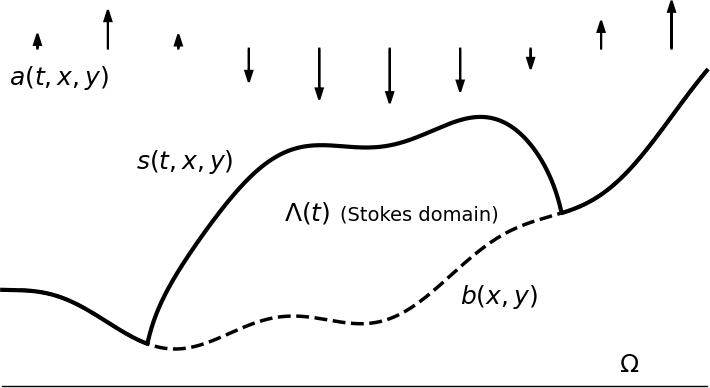
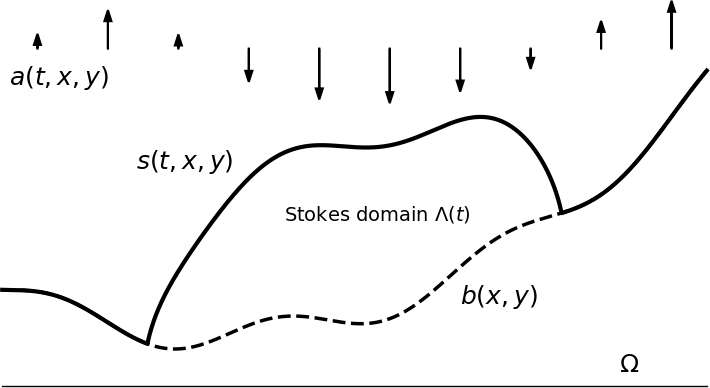
work on slides some more

Changed region(s): [[0.4028, 0.5258, 0.7127, 0.5876]]

diff --git a/latex/slides.tex b/latex/slides.tex
@@ -89,9 +89,9 @@
 \newcommand{\surl}[2]{\,{\scriptsize \href{#1}{#2}}}
 
 
-\title{Stokes glacier models using Firedrake}
+\title{Stokes Glacier Models Using Firedrake}
 
-\subtitle{A finite element tutorial for ice dynamics}
+\subtitle{a finite element tutorial}
 
 \author{Ed Bueler}
 
@@ -150,7 +150,7 @@
 
 \section{stage 0 \hspace{9.3mm} the glacier dynamics problem}
 
-\begin{frame}{glacier dynamics using the Stokes model: the high-level view}
+\begin{frame}{glacier dynamics using a Stokes model: the high-level view}
 
 \begin{itemize}
 \item we apply conservation principles to glaciers:
@@ -166,19 +166,17 @@
 \item glaciers are a ``slow flow'' problem because the forces of inertia are tiny
     \begin{itemize}
     \item[$\circ$] momentum conservation is called a ``stress balance''
-    \item[$\circ$] \alert{velocity \& pressure are instantaneously determined by current geometry \& boundary stresses}
+    \item[$\circ$] velocity \& pressure are \alert{instantaneously determined} by current geometry \& boundary stresses
     \end{itemize}
+\item \alert{Stokes equations $=$ stress balance $+$ incompressibility}
+\end{itemize}
 
-\bigskip
+\bigskip\bigskip
+
 {\scriptsize velocity} \hfill \includegraphics[width=0.8\textwidth]{figs/speed.png}
 
 \medskip
 {\scriptsize pressure} \hfill \includegraphics[width=0.8\textwidth]{figs/pressure.png}
-
-\bigskip
-
-\item \alert{Stokes equations $=$ stress balance $+$ incompressibility}
-\end{itemize}
 \end{frame}
 
 
@@ -487,7 +485,7 @@ $ git clone https://github.com/bueler/stokes-ice-tutorial.git
 \item \emph{purpose:} solve linear Stokes on a trapezoidal ``glacier''
 
     \begin{itemize}
-    \item[$\circ$] simplified weak form
+    \item[$\circ$] weak form:
     \end{itemize}
 {\small
     $$F(\bu,p;\bv,q) = \int_{\Lambda} 2 \nu_0\, D\bu\,:\,D\bv - p \nabla \cdot \bv - q \nabla \cdot \bu - \rho \mathbf{g} \cdot \bv \,dx$$
@@ -679,12 +677,8 @@ $800\times 128$&   $25  \times 8$   &        1759 &     3190
 \medskip
 \begin{Verbatim}[fontsize=\footnotesize,xleftmargin=-4mm]
 $ python3 solve.py -mx 800 -refine 2               # 38 secs run time
-  ...
-  ice speed (m a-1): av = 1758.861, max = 3190.043
 
 $ mpiexec -n 4 python3 solve.py -mx 800 -refine 2  # 20 secs run time
-  ...
-  ice speed (m a-1): av = 1758.861, max = 3190.043
 \end{Verbatim}
 %$
 
@@ -764,13 +758,17 @@ $ mpiexec -n 12 python3 solve.py -o finest.pvd \
 \medskip
 \item[Q.] how do glaciers change shape?
 
-\item[A.] via the \alert{free-surface equation} (or kinematical equation):
+\item[A.] via the \alert{free-surface equation} (or surface kinematical equation):
    $$\frac{\partial s}{\partial t} - \bu|_s \cdot \bn_s = a$$
 
     \begin{itemize}
     \item[$\circ$] $z=s(t,x,y)$ is the surface elevation of the glacier
-    \item[$\circ$] $a(t,x,y)$ is the surface mass balance
+
+\smallskip
+    \item[$\circ$] $a(t,x,y)$ is the surface mass balance \strut
     \item[$\circ$] $\bn_s=\left<-\frac{\partial s}{\partial x},-\frac{\partial s}{\partial y},1\right>$ is a normal vector to the surface
+
+\smallskip
     \item[$\circ$] $\bu|_s$ is the surface value (\emph{trace}) of the Stokes solution velocity
     \end{itemize}
 
@@ -779,7 +777,6 @@ $ mpiexec -n 12 python3 solve.py -o finest.pvd \
     \begin{itemize}
     \item[$\circ$] $\Omega \subset \RR^d$ is a fixed map-plane region \hfill {\footnotesize \emph{$d=2$ in reality, $d=1$ for planar}}
     \end{itemize}
-\item the \emph{mass continuity} equation is an alternative to the free-surface equation
 \end{itemize}
 \end{frame}
 
@@ -790,8 +787,8 @@ $ mpiexec -n 12 python3 solve.py -o finest.pvd \
 \item so we have a \alert{coupled} system of simultaneous equations:
 \begin{align*}
 \frac{\partial s}{\partial t} - \bu|_s \cdot \bn_s &= a &&\text{\emph{free-surface equation}} \\
-- \Div \left(2 \nu_\eps(|D\bu|)\, D\bu\right) + \nabla p &= \rho \bg &&\text{\emph{stress balance}} \\
-\Div \bu &= 0 &&\text{\emph{incompressibility}}
+- \Div \left(2 \nu_\eps(|D\bu|)\, D\bu\right) + \nabla p &= \rho \bg &&\text{\emph{stress balance}} \phantom{\int}  \\
+\phantom{\int} \Div \bu &= 0 &&\text{\emph{incompressibility}}
 \end{align*}
 \end{itemize}
 
@@ -816,7 +813,8 @@ $ mpiexec -n 12 python3 solve.py -o finest.pvd \
 \begin{frame}{weak form of coupled system of equations}
 
 \begin{itemize}
-\item get the weak form of the coupled system in the usual way, namely multiply by test functions and integrate by parts:
+\item get the weak form of the coupled system in the usual way \dots
+\item multiply by test functions and integrate by parts:
 {\small
 \begin{align*}
 \int_\Omega \left(\frac{\partial s}{\partial t} - \bu|_s \cdot \bn_s - a\right)\, r\,dx &=0  &&\forall r \\
@@ -832,7 +830,7 @@ $ mpiexec -n 12 python3 solve.py -o finest.pvd \
 \item we need to make high-level choices about this coupled system:
     \begin{enumerate}
     \item[1.] time-stepping: explicit or implicit?
-    \item[2.] solve it together (\emph{monolithic}) or split?
+    \item[2.] solved together (\emph{monolithic}) or split?
     \item[3.] spaces and elements for $s,\bu,p$?
     \end{enumerate}
 \end{itemize}
@@ -840,8 +838,8 @@ $ mpiexec -n 12 python3 solve.py -o finest.pvd \
 \begin{column}{0.45\textwidth}
 \phantom{foo}
 
-\vspace{2mm}
-\hfill \includegraphics[width=0.9\textwidth]{figs/domain.png}
+%\vspace{2mm}
+\hfill \includegraphics[width=\textwidth]{figs/domain.png}
 \end{column}
 \end{columns}
 \end{frame}
@@ -853,25 +851,25 @@ $ mpiexec -n 12 python3 solve.py -o finest.pvd \
 \item early/naive approaches to solving this coupled problem have been fragile
     \begin{itemize}
     \item[$\circ$] the method everyone tries first is to solve Stokes for the current geometry, then advance the surface, and repeat
-    \item[$\circ$] this is a \emph{split} and \emph{explicit} approach to the coupled problem
-    \item[$\circ$] the result is \alert{limited performance because of poorly-understood time-step restrictions}
+    \item[$\circ$] namely, a \emph{split} and \emph{explicit} approach to the coupled problem
+    \item[$\circ$] the result is \alert{limited performance} because of poorly-understood time-step restrictions
     \end{itemize}
 
 \bigskip
-\item what are the challenges in designing better schemes?  here are two
+\item what are the challenges in designing better schemes?  here are two:
 \end{itemize}
 
 \begin{enumerate}
-\item Recall that $s$ determines the evolving domain $\Lambda(t)$ on which the Stokes problem is solved.  Therefore each time the surface $s$ changes the FE mesh used for the $\bu,p$ solver also changes.  This makes a monolithic or implicit implementations difficult.
-\item The coupled problem mixes advective and diffusive aspects to a degree that depends on the particular boundary conditions.
+\item The surface elevation $s$ determines the evolving domain $\Lambda(t)$ on which the Stokes problem is solved.  Each time $s$ changes the mesh used for the $\bu,p$ solver also changes.  This makes a monolithic or implicit implementations difficult.
+\item The coupled problem mixes advective and diffusive aspects.  The proportions depend on the particular boundary conditions.
     \begin{itemize}
-    \item the precise time-step restriction, and thus the expected performance scaling, remains unclear; see Bueler (2023), and references therein
+    \item The precise time-step restriction, and the expected performance scaling, remains unclear (Bueler 2023 and references therein).
     \end{itemize}
 \end{enumerate}
 \end{frame}
 
 
-\begin{frame}{making choices}
+\begin{frame}{choices for \texttt{stage5/}}
 
 \begin{itemize}
 \item we will demonstrate a solver which is \alert{semi-implicit}, \alert{split}, and \alert{stabilized}
@@ -881,24 +879,31 @@ $ mpiexec -n 12 python3 solve.py -o finest.pvd \
 
 \medskip
 \item it is based on these choices:
+
+\smallskip
     \begin{enumerate}
     \item[1.] we use first-order, and mostly explicit, time-stepping
         \begin{itemize}
-        \item[$\circ$] we add an implicit free-surface \alert{stabilization}
-        \item[$\circ$] we determine the time step by a CFL condition
+        \item[$\circ$] but we add implicit \alert{edge stabilization} in the free-surface equation
+        \item[$\circ$] and we determine the time step by a CFL condition
         \end{itemize}
+
+\smallskip
     \item[2.] we split the coupled system, alternating free-surface and Stokes solves
         \begin{itemize}
-        \item[$\circ$] we add a \alert{stabilizing} semi-implicit load heuristic to the Stokes solver
+        \item[$\circ$] but we add \alert{load stabilization} coupling to the Stokes solver
         \end{itemize}
-    \item[3.] we use $P_1$ elements for $s$, and \alert{stable} $P_2\times P_1$ elements (\emph{as before}) for $\bu,p$
+
+\smallskip
+    \item[3.] we use $P_1$ elements for $s$, and (inf-sup stable) $P_2\times P_1$ elements for $\bu,p$
         \begin{itemize}
         \item[$\circ$] note that $s\in P_1$ means $\Lambda(t)$ is polygonal
+        \item[$\circ$] elements for $\bu,p$ are the same as previous stages
         \end{itemize}
     \end{enumerate}
 
 \medskip
-\item the next slides give more detail on techniques \dots
+\item the next slides give more detail on these techniques \dots
 \end{itemize}
 \end{frame}
 
@@ -919,13 +924,14 @@ where
     $$J(s,r) = \sum_{e\in E^h} \int_e \tfrac{1}{2} h_e^2 \left|\bu|_{s_k^h}\right| \jump{\grad s} \jump{\grad r}\,dS$$
 
     \begin{itemize}
+    \item[$\circ$] $s_k^h$ is the FE approximation of surface elevation at time $t_k$
     \item[$\circ$] $E^h$ is the set of interior edges in the triangulation $\Omega^h$
     \item[$\circ$] $\jump{\bv} = \bv_+ \cdot \bn_+ - \bv_- \cdot \bn_-$ is the jump of a vector field along an edge
     \item[$\circ$] $h_e$ is the average of the diameters of the two cells which meet $e$
+    \item[$\circ$] note surface velocity and slope are evaluated explicitly, at $t_k$
     \end{itemize}
 
 \medskip
-\item surface velocity and slope are evaluated explicitly, at $t_k$
 \item the system to solve for $\alert{s_{k+1}^h}$ is \emph{linear}
 \end{itemize}
 \end{frame}
@@ -935,8 +941,7 @@ where
 
 \begin{itemize}
 \item also from Tominec et al (2026), but based on L\"ofgren et al (2022)
-\item the stress balance is modified to stabilize the coupling
-\item we \alert{add an extrapolated (and symmetrized) load on the upper surface}:
+\item we \alert{add an extrapolated surface mass balance load on the upper surface}:
 {\small
 \begin{align*}
 \int_{\Lambda(t_k)} 2\, \nu_\eps(|D\bu|)\, D\bu\,:\,D\bv - p \nabla \cdot \bv - \rho \mathbf{g} \cdot \bv\,dx \qquad& \\
@@ -944,14 +949,20 @@ where
 \end{align*}
 
     \begin{itemize}
-    \item[$\circ$] the Stokes domain $\Lambda(t_k)$ is defined by the current surface elevation $s_k$
+    \item[$\circ$] $\Lambda(t_k)$ is the Stokes domain defined by the current surface elevation $s_k$
     \item[$\circ$] $\Gamma_s(t_k)$ is the upper surface of $\Lambda(t_k)$
     \item[$\circ$] $\bn_{s_k}=\left<-\grad s_k,1\right>$ is an outward normal on $\Gamma_s(t_k)$
     \item[$\circ$] $\bn=\bn_{s_k}/|\bn_{s_k}|$ is the outward \emph{unit} normal 
     \end{itemize}
 }
-\item L\"ofgren et al (2022) use Reynold's transport theorem to motivate this type of stabilization of the coupled system
-\item Tominec et al (2026) \alert{prove} that techniques 1 \& 2 together stabilize the $L^2$ norm of the evolving surface
+
+\medskip
+\item concept: the stress balance is modified so as to stabilize the coupling
+    \begin{itemize}
+    \item[$\circ$] L\"ofgren et al (2022) use Reynold's transport theorem to motivate this type of stabilization of the coupled system
+    \item[$\circ$] the above form is symmetrized relative to the L\"ofgren et al (2022) version
+    \item[$\circ$] Tominec et al (2026) \alert{prove} that techniques 1 \& 2 together stabilize the $L^2$ norm of the evolving surface
+    \end{itemize}
 \end{itemize}
 \end{frame}
 

diff --git a/latex/figs/domain.py b/latex/figs/domain.py
@@ -35,9 +35,7 @@ def drawclimate(x,s):
 # domain notation figure
 plt.figure(figsize=(10,5.5))
 x, s, b = genbasicfig()
-plt.text(x[400], b[600] + 0.4 * s[600], r"$\Lambda(t)$",
-         fontsize=fsize, color='k')
-plt.text(x[480], b[600] + 0.4 * s[600], "(Stokes domain)",
+plt.text(x[400], b[600] + 0.4 * s[600], r"Stokes domain $\Lambda(t)$",
          fontsize=smallfsize, color='k')
 #plt.text(x[550] - 1.0, b[600] + 0.4 * s[600], r'$\mathbf{u}(t,x,z)$',
 #         fontsize=bigfsize, color='k')